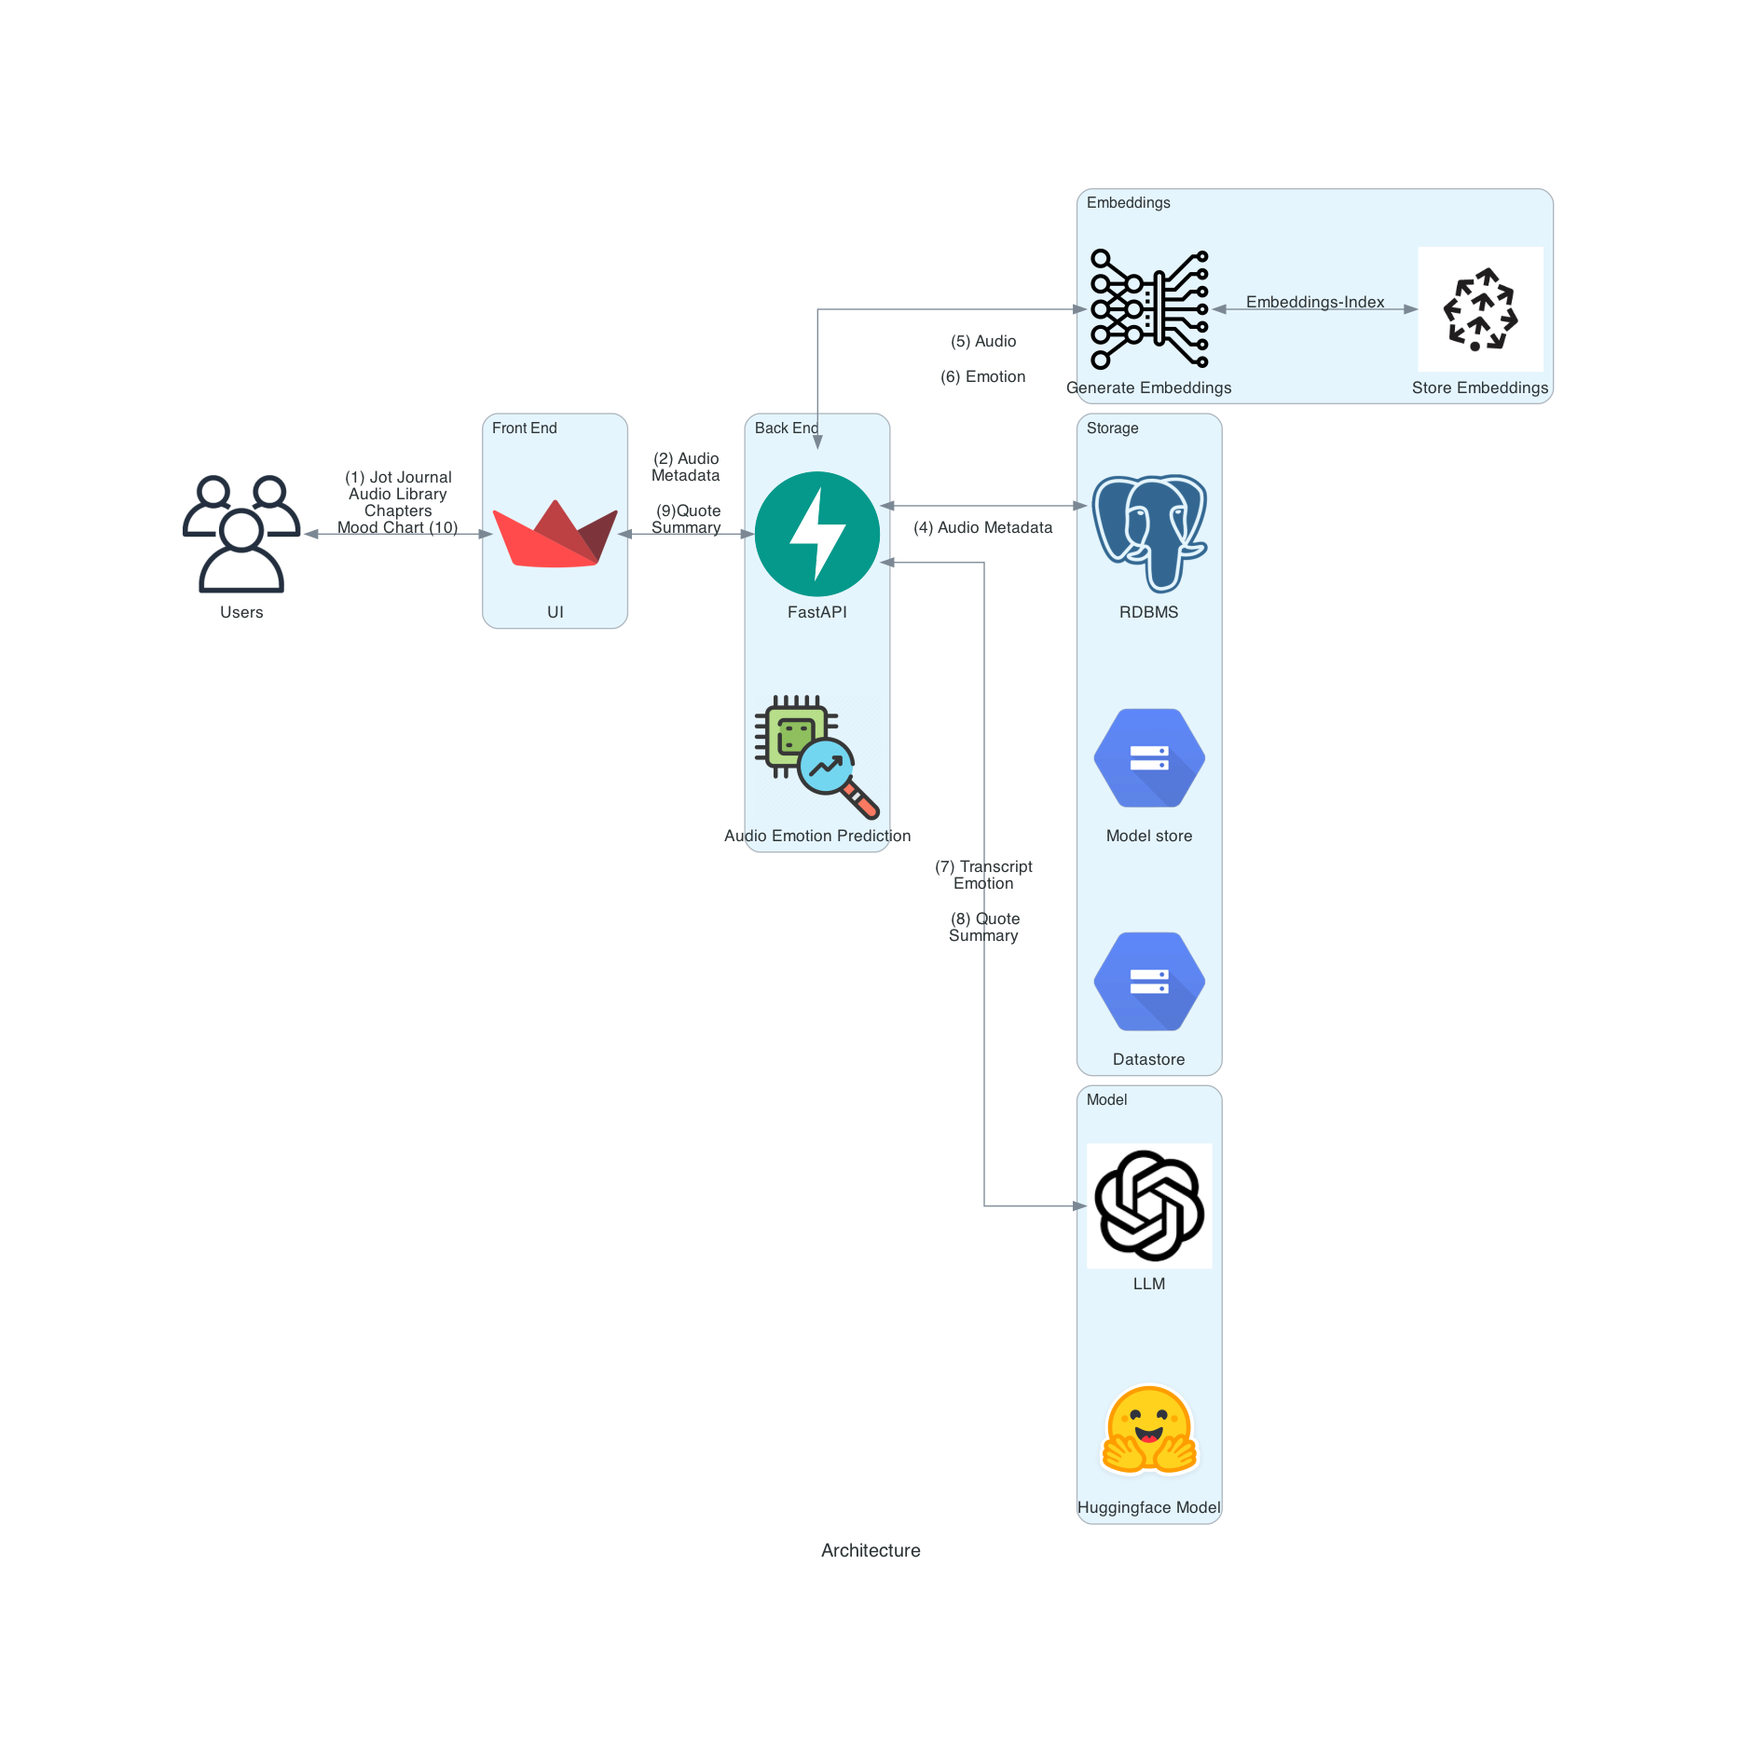
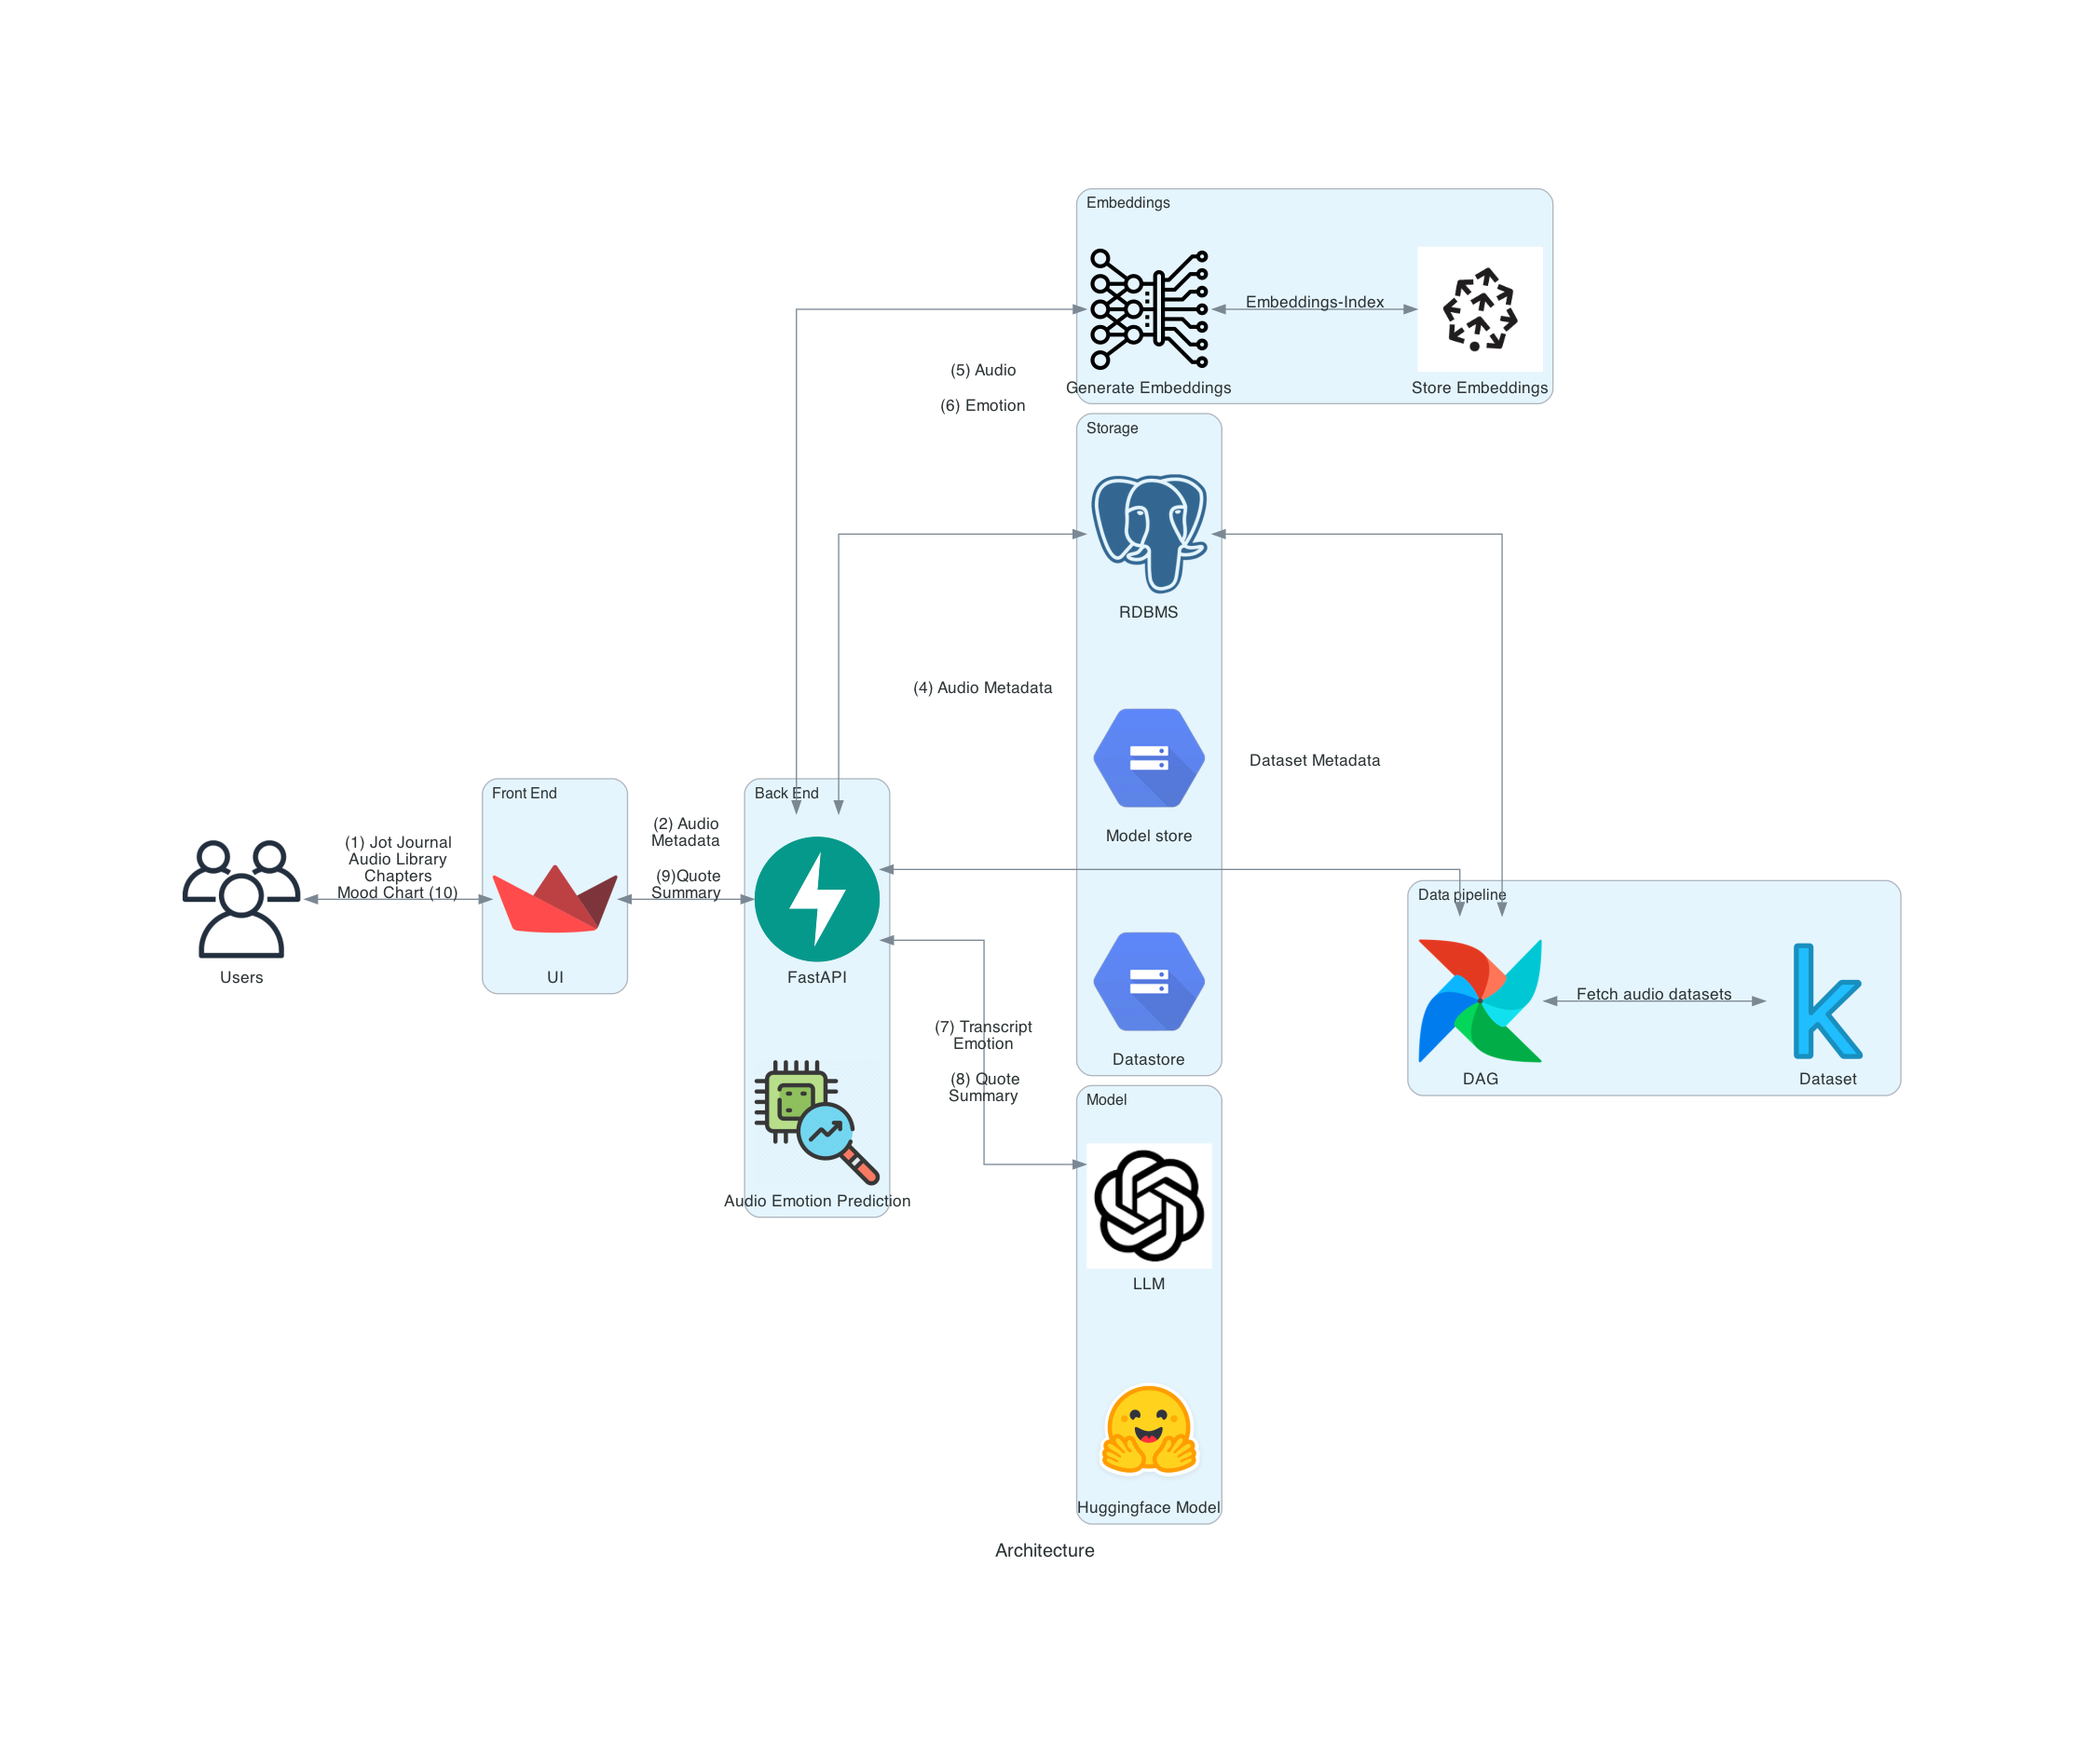
Feature/minidiagrams (#64)
* Added architecture diagram

* Minor updates in arch diag

---------

Changed region(s): [[0.0931, 0.093, 0.931, 0.8995]]

diff --git a/diagrams/architecture.py b/diagrams/architecture.py
@@ -19,13 +19,11 @@ with Diagram("Architecture", show=False):
     #pinecone = Custom("Store Embeddings", "./myresources/pinecone.jpeg")
     # huggingface = Custom("Huggingface Model", "./myresources/huggingface.png")
     # openai = Custom("LLM","./myresources/openai.png")
-    # kaggle = Custom("Dataset","./myresources/kaggle.png")
    # tensorflow = Custom("Model Training Pipeline", "./myresources/tensorflow.png")
     # datastore = Custom("Datastore","./myresources/gcs.png")
     #modelstore = Custom("Model store","./myresources/gcp.png")
     user  = Users("Users") 
     #database = SQL("Database")
-    #dag = Airflow("Store data DAG")
     # postgresql = Postgresql("RDBMS")
     #embeddings = Custom("Generate Embeddings","./myresources/embeddings.png")
     # prediction = Custom("Audio Emotion Prediction","./myresources/prediction.png")
@@ -59,10 +57,15 @@ with Diagram("Architecture", show=False):
         openai = Custom("LLM","./myresources/openai.png")
         huggingface = Custom("Huggingface Model", "./myresources/huggingface.png")
 
-
+    with Cluster("Data pipeline"):
+        kaggle = Custom("Dataset","./myresources/kaggle.png")
+        dag = Airflow("DAG")
+        dag >> Edge(label="Fetch audio datasets") << kaggle
     user >> Edge(label="(1) Jot Journal\nAudio Library\nChapters\nMood Chart (10)") << streamlit
     streamlit >> Edge(label="(2) Audio\nMetadata\n\n (9)Quote\nSummary") << fastapi
     fastapi >> Edge(label="(3) Audio file") - datastore
     fastapi >> Edge(label="(4) Audio Metadata") << dbms
     fastapi >> Edge(label="(5) Audio\n\n(6) Emotion") << panns_inf 
     fastapi >> Edge(label="(7) Transcript\nEmotion\n\n (8) Quote\nSummary") << openai
+    fastapi >> Edge() << dag 
+    dbms >> Edge(label="Dataset Metadata") << dag
